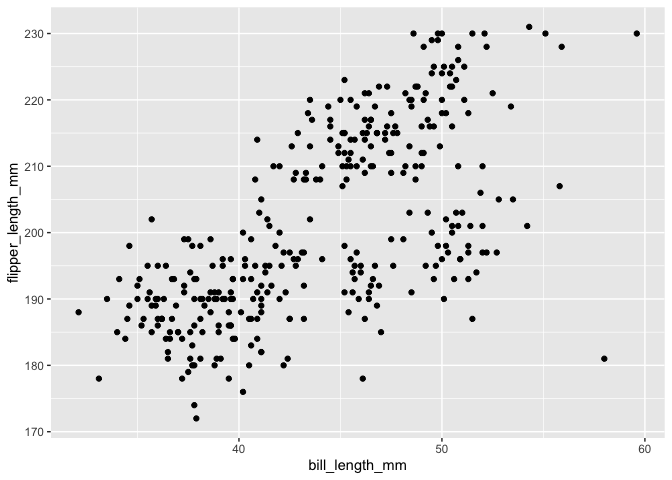
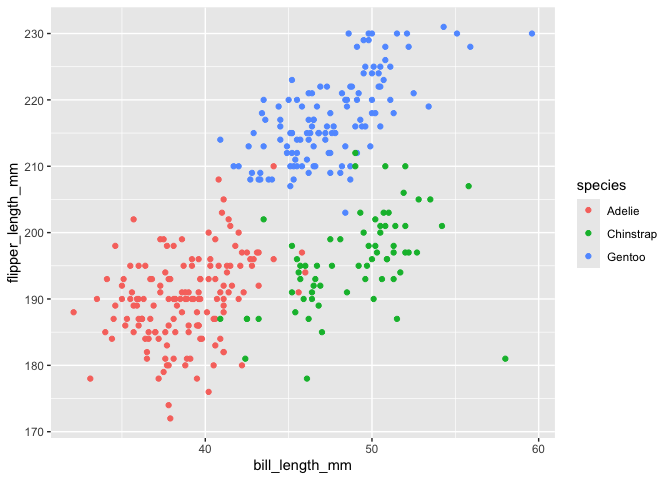
Save plot

diff --git a/p8105_hw1_ml5222.md b/p8105_hw1_ml5222.md
@@ -44,7 +44,7 @@ The mean bill length is 43.9219298. The mean flipper length is
 200.9152047.The mean body mass is 4201.754386
 
 ``` r
-ggplot(penguins,aes(x=bill_length_mm,y=flipper_length_mm),)+geom_point()
+ggplot(penguins,aes(x=bill_length_mm,y=flipper_length_mm, colour = species))+geom_point()
 ```
 
     ## Warning: Removed 2 rows containing missing values or values outside the scale range
